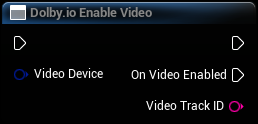
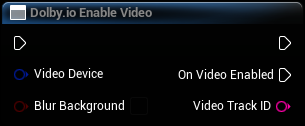
Add VSL documentation

diff --git a/docs/docs/tutorial/camera-preview.md b/docs/docs/tutorial/camera-preview.md
@@ -32,7 +32,7 @@ Before you start, [set up](common-setup) your project.
 
 When you select a device from the combo box, we get a corresponding device from the variable and use [`Enable Video`](../blueprints/functions#dolbyio-enable-video) to start streaming or [`Disable Video`](../blueprints/functions#dolbyio-disable-video) if the device is "None".
 
-![](../../static/img/video-plane-selection.png)
+![](../../static/img/camera-preview-selection.png)
 
 `BP_DolbyIOVideoPreviewPlane` is a sample Blueprint with a simple `Event Graph`, which handles [`On Video Enabled`](../blueprints/events#on-video-enabled) and [`On Video Disabled`](../blueprints/events#on-video-disabled).
 

diff --git a/docs/docs/blueprints/functions.md b/docs/docs/blueprints/functions.md
@@ -192,6 +192,7 @@ Enables video streaming from the given video device or the default device if no 
 | Name | Direction | Type | Default value | Description |
 |---|:---|:---|:---|:---|
 | **VideoDevice** | Input | [Dolby.io Video Device](types.md#dolbyio-video-device) | default device | The video device to use. |
+| **Blur Background** | Input | bool | false | Indicates whether the background should be blurred. This parameter is ignored on platforms other than Windows and macOS. |
 
 #### Triggered events
 | Event | When |
